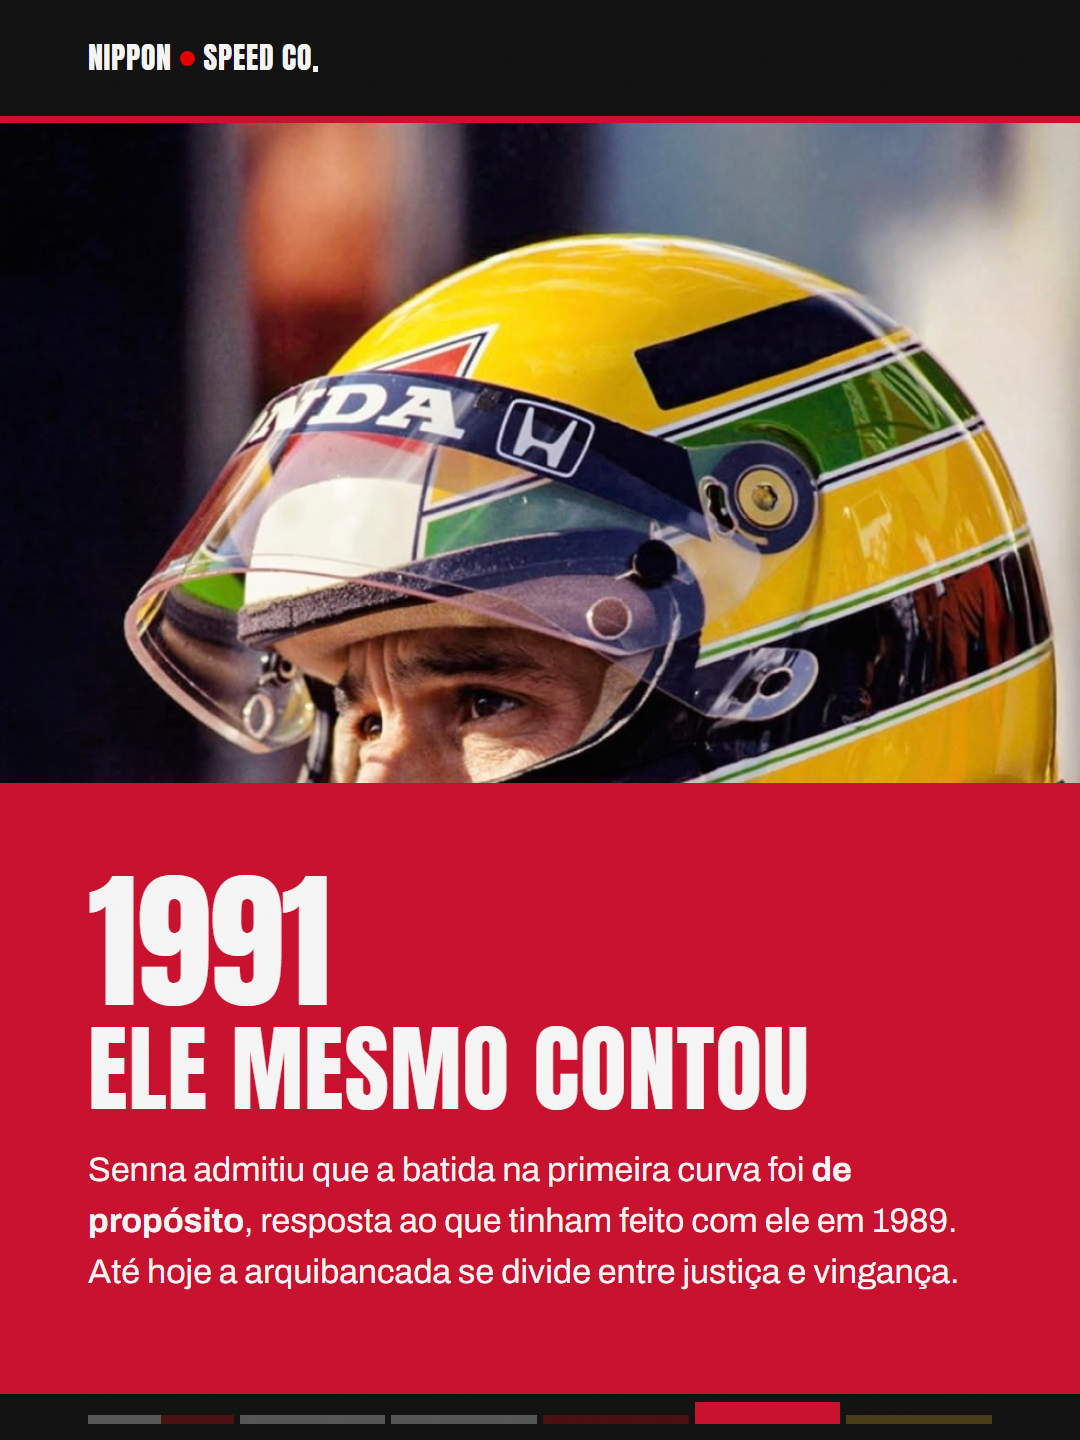
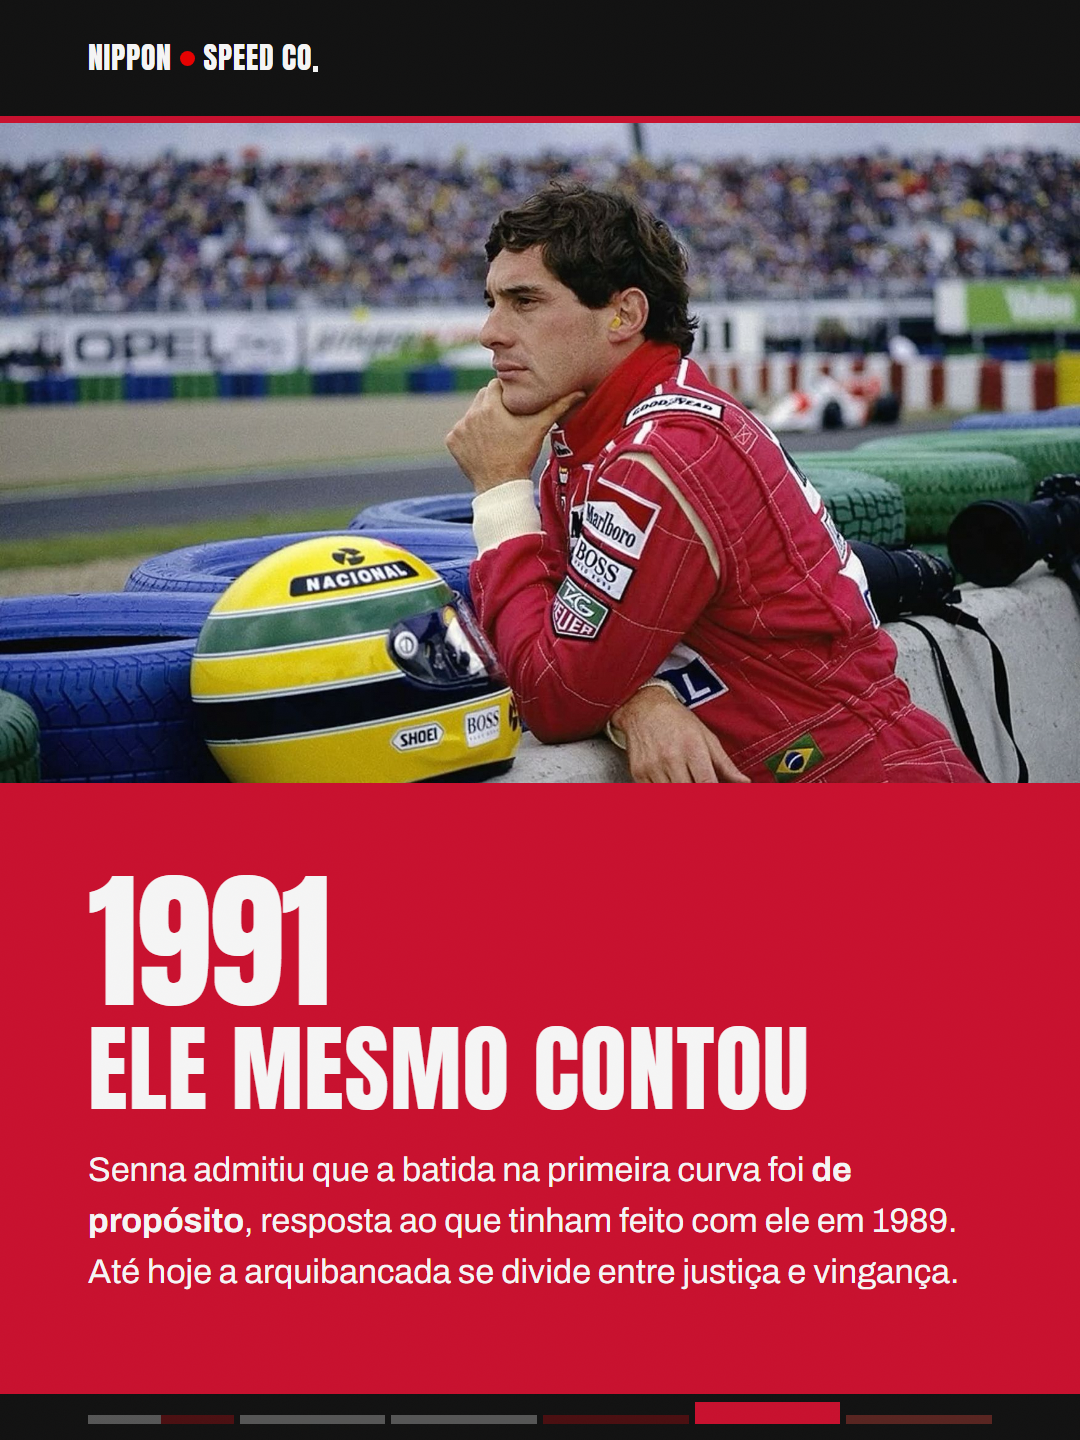
fix(exploracao): direcao C - s5 troca por foto paisagem (Senna pensativo na barreira, encaixa sem cortar) + s6 acento dourado->vermelho (dourado barrento destoava do fecho)

diff --git a/marca/conteudo/exploracao/direcao-c-eras/post.html b/marca/conteudo/exploracao/direcao-c-eras/post.html
@@ -25,6 +25,7 @@
   --mclaren:#c8102e;   /* faixa Marlboro da MP4/5 (1989) e MP4/6 (1991) */
   --ferrari:#d10a11;   /* rosso da Ferrari 641, o carro de Prost em 1990 */
   --gold:#c9a227;      /* o bordado dourado do boné do GP do Japão 1990 */
+  --red-bright:#ff5347; /* acento do slide da peça: o dourado ficava barrento no escuro e destoava do resto — o fecho volta pro vermelho da marca */
 }
 *{ box-sizing:border-box; }
 html,body{ margin:0; padding:0; background:#2a2a2a; }
@@ -53,7 +54,7 @@ body:not(:has(.slide:target)) #s1{ display:flex; }
 .era-mclaren{ background:var(--mclaren); }
 .era-ferrari{ background:var(--ferrari); }
 .era-paper{ background:var(--paper); }
-.era-gold{ background:var(--gold); }
+.era-gold{ background:var(--red-bright); }
 .era-split{ background:linear-gradient(90deg, var(--paper) 0 50%, var(--ferrari) 50% 100%); }
 
 /* Fita do tempo: 1989 · 1989 · 1990 · 1991 · a peça. É a espinha do carrossel,
@@ -66,7 +67,7 @@ body:not(:has(.slide:target)) #s1{ display:flex; }
 .c2,.c3{ background:var(--paper); }
 .c4{ background:var(--ferrari); }
 .c5{ background:var(--mclaren); }
-.c6{ background:var(--gold); }
+.c6{ background:var(--red-bright); }
 
 /* ---- Poço da foto: retângulo de aresta dura. Sem scrim, sem fade, sem texto por cima. ---- */
 .well{ position:relative; overflow:hidden; }
@@ -138,15 +139,15 @@ h1,h2{ font-family:"Anton",sans-serif; font-weight:400; margin:0; text-transform
 
 /* ---- s6 · a peça ---- */
 .piece-head{ display:flex; align-items:flex-start; gap:40px; }
-.piece-yr{ font-family:"Anton",sans-serif; font-size:124px; line-height:.86; color:var(--gold); flex:0 0 auto; }
+.piece-yr{ font-family:"Anton",sans-serif; font-size:124px; line-height:.86; color:var(--red-bright); flex:0 0 auto; }
 .piece-name{ font-size:80px; line-height:1.2; }
 .piece-bd{ margin:26px 0 0; font-size:32px; line-height:1.5; color:var(--paper); max-width:880px; }
-.piece-bd b{ font-weight:700; color:var(--gold); }
-.cta{ margin-top:32px; padding-top:26px; border-top:3px solid var(--gold); }
+.piece-bd b{ font-weight:700; color:var(--red-bright); }
+.cta{ margin-top:32px; padding-top:26px; border-top:3px solid var(--red-bright); }
 .cta-line{ margin:0; font-size:29px; line-height:1.4; color:var(--paper); font-weight:600; max-width:860px; }
 /* Archivo, não Anton: condensada em caixa baixa perde o pingo do "i" (link -> llnk). */
 .cta-handle{ display:block; margin-top:16px; font-family:"Archivo",sans-serif; font-weight:800;
-  text-transform:lowercase; font-size:34px; letter-spacing:.005em; color:var(--gold); }
+  text-transform:lowercase; font-size:34px; letter-spacing:.005em; color:var(--red-bright); }
 </style>
 </head>
 <body>
@@ -243,7 +244,7 @@ h1,h2{ font-family:"Anton",sans-serif; font-weight:400; margin:0; text-transform
   <header class="strip"><span class="wordmark">Nippon<span class="disc"></span>Speed Co<span class="sq"></span></span></header>
   <div class="era-rule era-mclaren"></div>
   <figure class="well" style="flex:0 0 660px; margin:0">
-    <img src="s5.jpg" style="object-position:center 40%" alt="Ayrton Senna no cockpit da McLaren-Honda, visor levantado, olhar pensativo"/>
+    <img src="s5.jpg" style="object-position:center 38%" alt="Ayrton Senna encostado na barreira de pneus, mão no queixo, olhando a pista, capacete ao lado"/>
   </figure>
   <div class="field field-red">
     <span class="yr">1991</span>
